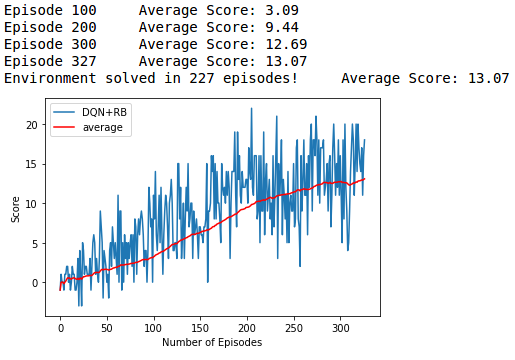
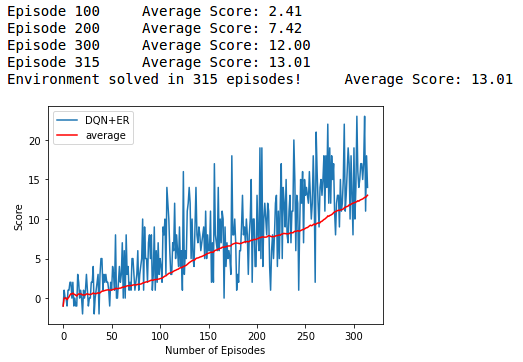
added test agent to jupyter

Changed region(s): [[0.0, 0.275, 0.7456, 0.9778], [0.0, 0.0, 0.5903, 0.2444], [0.6524, 0.1833, 0.9942, 0.2444]]

diff --git a/Report.md b/Report.md
@@ -28,8 +28,8 @@ The main component of Q-Learning algorithm is the `Q-table` where each element `
 
 At the begining of learning, `Q-table` is initialized as a zero matrix, as the agent has not interacted with the environment. The values in `Q-table` will be updated in each learning episode using the updating function as defined below.
 
-<img src="https://github.com/truonghuu/drlnd_navigation/blob/master/figures/q_function.png" width="50%" align="top-left" alt="" title="q_function.png" />
-Q-Function ([Source](https://towardsdatascience.com/a-beginners-guide-to-q-learning-c3e2a30a653c))
+<img src="https://github.com/truonghuu/drlnd_navigation/blob/master/figures/q_function.png" width="70%" align="top-left" alt="" title="q_function.png" />
+Bellman Equation ([Source](https://towardsdatascience.com/a-beginners-guide-to-q-learning-c3e2a30a653c))
 
 In this function, learning rate (alpha) defines how much we accept the new value vs the old value. Discount factor (gamma) is used to balance the immediate and future reward. `R(s,a)` is the reward that the agent receives when taking an action at a certain state. 
  
@@ -46,28 +46,31 @@ The logic of 𝛆-greedy algorithm is implemented as part of the `agent.act()` m
 
 For most problems, it is impractical to represent Q-Function as a table that contains values for each pair of state and action. On one hand, it is because of the large number of states and actions of the problems. On the other hand, most of problems have continuous values for environment states. To overcome this problem, we train a neural network with parameter w to estimate Q-values, i.e., `F(s,a,w) ≈ Q(s,a)`. This is basiscally a regression problem in which the input is the state of the environment and output is the estimated Q-values. The loss function of the training is defined as mean squared error of the estimated Q-value and the target Q-value, which is defined as `R(s,a) + gamma * max Q'(s', a')`. By minimizing the loss function, we train the model to converge to the maximum expected reward.
 
-In actual implementation, we use 2 neural networks for learning: one is for the prediction network and one for the target network. The target network has the same architecture as the prediction network but with paramters updated less frequently compared to the prediction one. In other words, after every K training iterations (K is a hyperparameter), the parameters of the prediction network are copied to the target network.
+In actual implementation, we use 2 neural networks for learning: one is for the prediction network and the other for the target network. The target network has the same architecture as the prediction network but with paramters updated less frequently compared to the prediction one. In other words, after every K steps (K is a hyperparameter), the parameters of the prediction network are copied to the target network. We also define a parameter `τ` that indicates how much the target network will be updated from the parameters of the prediction network, i.e., `θ_target = τ*θ_prediction + (1 - τ)*θ_target` where `θ` is a parameter of the networks. 
    
 The neural network architecture used for this project can be found [here](https://github.com/truonghuu/drlnd_navigation/blob/master/model.py) in the `model.py` file of the source code. It is a fully-connected neural network that contains an input layer of 37 nodes, 2 hidden layers with 64 nodes each and an output  with 4 nodes, corresponding to 4 actions.
 
 
 #### Experience Replay
 
-However, unlike supervised learning where input data is independent and identically distributed, in reinforcement learning, the input and target change over time. In other words, we train an agent to estimate the Q-values but the Q-values are changing as the agent knows the environment better.
+While training a neural network using stochastic gradient descent works best with independent and identically distributed (i.i.d) data, in reinforcement learning, as the agent takes an action at one state and moves to another state, there would be a strong temporal/chronological correlation among state/action pairs in each training episode. This leads to instability (oscillation or divergence of Q-Values) during training as small updates to Q-values may significantly change the policy.   
 
-Experience replay allows the agent to learn from past experience.
+To overcome this issue, we use a biologically-inspired technique namely experience replay. By maintaining a memory that stores a collection of experience tuples (state, action, reward, and next state), at every learning step, we randomly samples from this memory a number of tuples (i.e., a batch) and feed in the neural networks (prediction and target networks). Experience tuples are sampled randomly from a large collection, the correlation among samples would be low. This technique also allows the agent to learn from past experience rather than just most recent actions.
 
-Each experience is stored in a replay buffer as the agent interacts with the environment. The replay buffer contains a collection of experience tuples with the state, action, reward, and next state `(s, a, r, s')`. The agent then samples from this buffer as part of the learning step. Experiences are sampled randomly, so that the data is uncorrelated. This prevents action values from oscillating or diverging catastrophically, since a naive Q-learning algorithm could otherwise become biased by correlations between sequential experience tuples.
-
-Also, experience replay improves learning through repetition. By doing multiple passes over the data, our agent has multiple opportunities to learn from a single experience tuple. This is particularly useful for state-action pairs that occur infrequently within the environment.
-
-The implementation of the replay buffer can be found [here](https://github.com/truonghuu/drlnd_navigation/blob/master/dqn_agent.py) in the `dqn_agent.py` file of the source code.
+The implementation of the experience replay  can be found [here](https://github.com/truonghuu/drlnd_navigation/blob/master/dqn_agent.py) in the `dqn_agent.py` file of the source code.
 
 ### Results
 
-Through different runs, it is observed that the agent achieves an average score of +13 over 100 consecutive episodes after a total of 327 episodes of training where the first 100 episodes are consider as ram up period. The figure below shows the evolution of average score with respect to number of episodes run.
+In all experiments, epsilon of the greedy algorithm for choosing action is set to 1 at the beginning. After each training episode, it is reduced by a decay factor of 0.98. The lowest epsilon value is 0.02. For each training episode, the maximum number of steps is set to 1000, i.e., the episode is considered as solved after reaching 1000 steps even though the environment has not reach the terminate state. The maximum number of experience tuples stored in the memory is set to 100000. The batch size for randomly sampling from the memory is set to 64. 
+ 
+It is observed that the agent achieves an average score of +13 over 100 consecutive episodes after a total of 315 episodes of training where the first 100 episodes are considered as ram up period. The figure below shows the evolution of average score with respect to number of episodes run. The weights of the deep learning model of the trained agent is stored in the file `model.pt`.
 
-<img src="https://github.com/truonghuu/drlnd_navigation/blob/master/figures/score_evolution.png" width="50%" align="top-left" alt="" title="Experiment Results" />
+<img src="https://github.com/truonghuu/drlnd_navigation/blob/master/figures/score_evolution.png" width="70%" align="top-left" alt="" title="Experiment Results" />
+
+The trained agent is tested with 15 episodes. The below figure presents the score achieved by the agent at each episode. We can observe that the trained agent achieves an average score over the testing episodes higher than 13 when the environment reaches the terminate state. The figure also shows that for certain episodes, the agent fails to achieve the expected score, e.g., episode 4, 6, 9, 15, which raises the need for improvement techniques to train the agent and stabilize its performance.
+
+<img src="https://github.com/truonghuu/drlnd_navigation/blob/master/figures/test_agent.png" width="70%" align="top-left" alt="" title="Experiment Results" />   
+
 
 ### Future Direction
 
